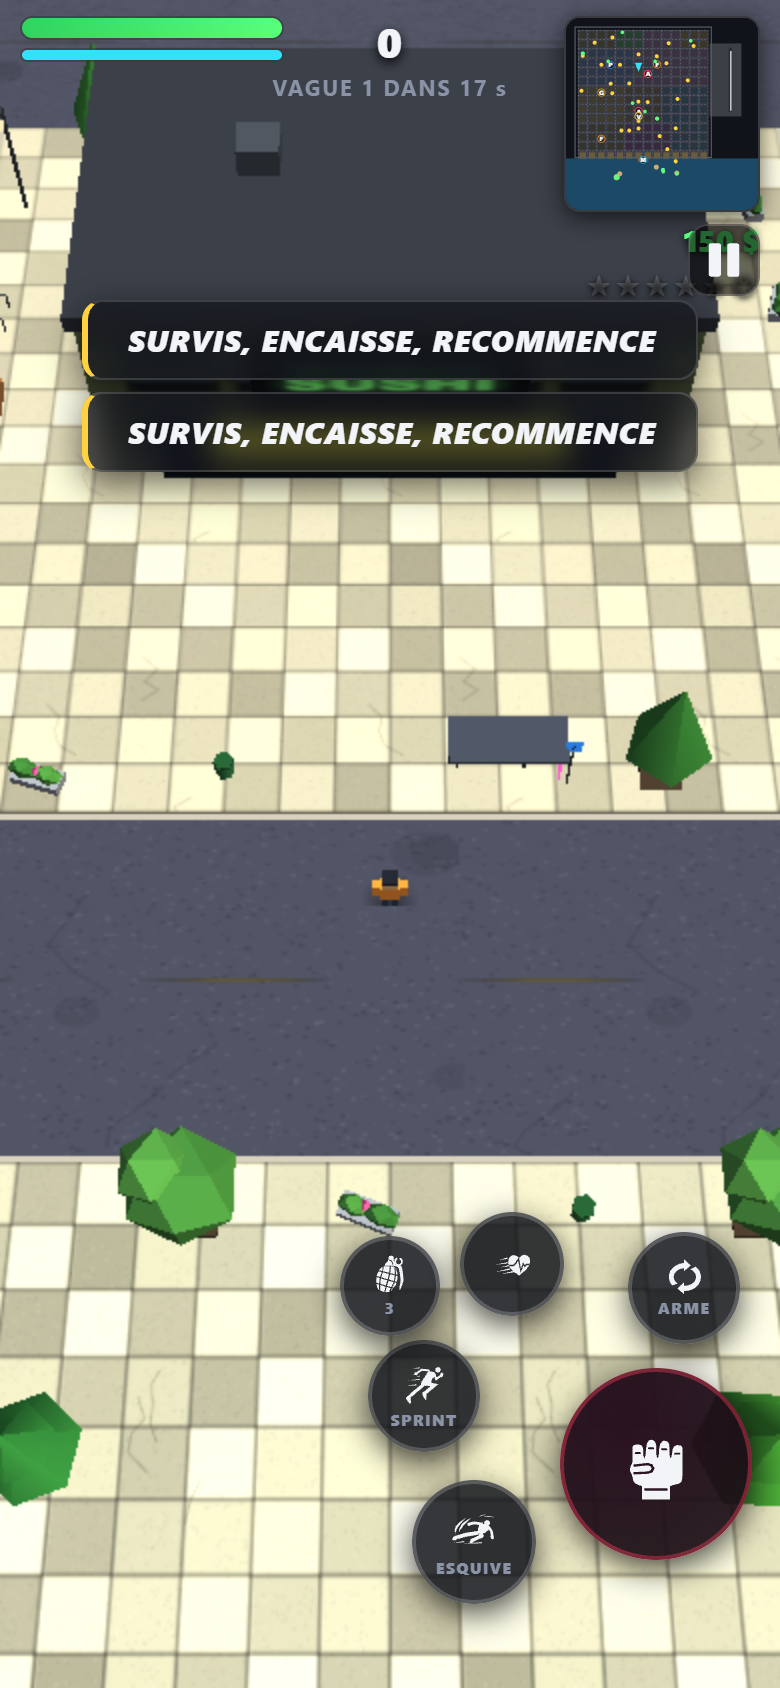
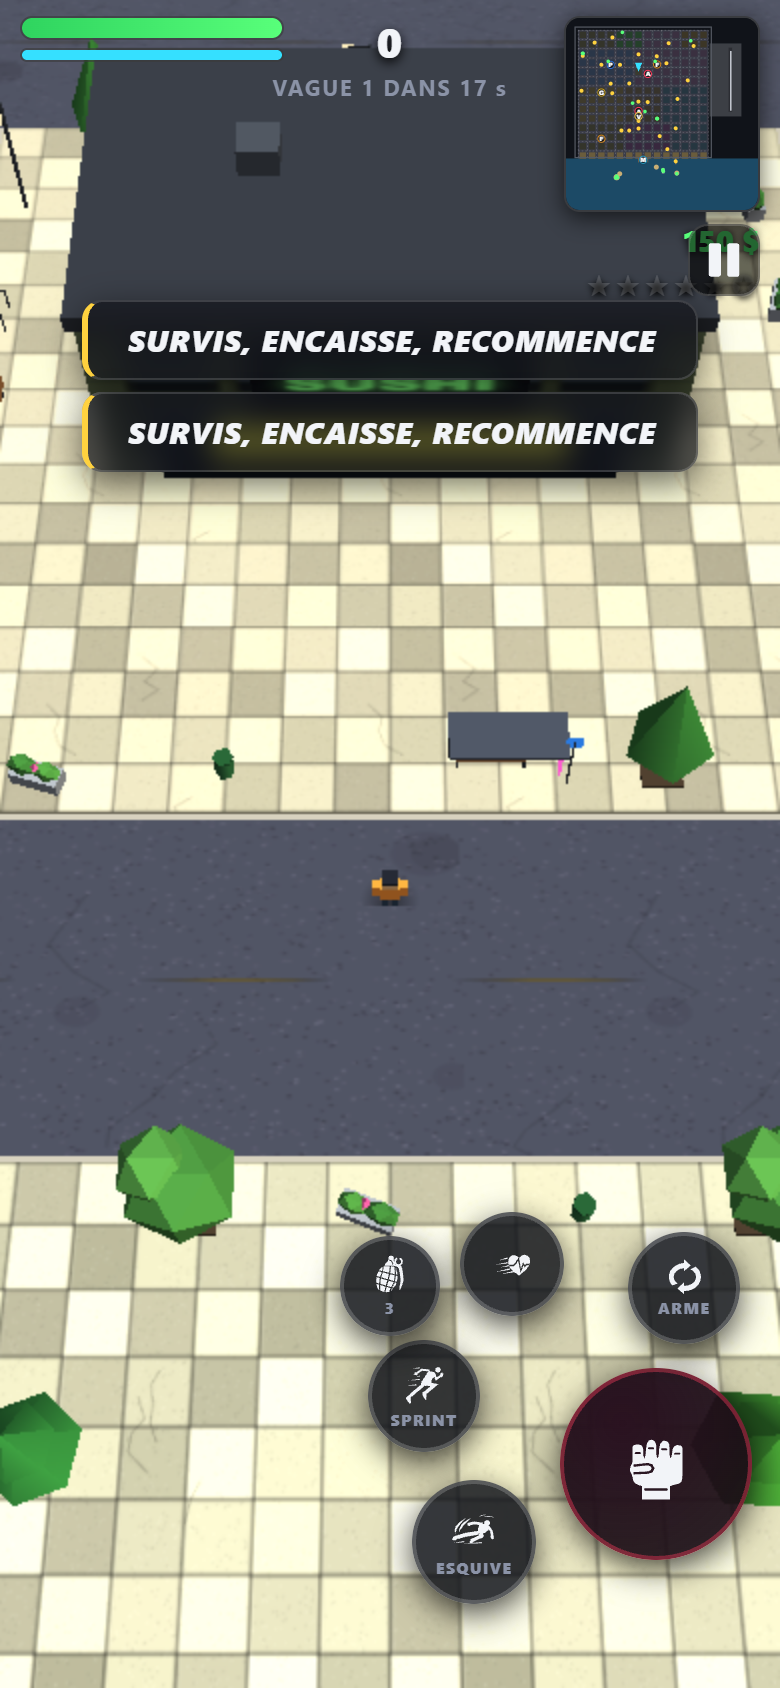
fix(décor): mobilier posé sur le trottoir, pas enfoncé dedans
Posé à y=0, tout le mobilier était enfoncé de 0,22 dans les dalles de
trottoir (pieds de bancs, fosses d'arbres, terre des massifs invisibles).
Captures refaites.

diff --git a/index.html b/index.html
@@ -3722,6 +3722,7 @@ function majHorsLesMurs(dt){
 let _aleaDecorS=917;
 function aleaDecor(){ _aleaDecorS|=0; _aleaDecorS=(_aleaDecorS+0x6D2B79F5)|0; let t=Math.imul(_aleaDecorS^(_aleaDecorS>>>15),1|_aleaDecorS); t=(t+Math.imul(t^(t>>>7),61|t))^t; return ((t^(t>>>14))>>>0)/4294967296; }
 const aD=(a,b)=>a+aleaDecor()*(b-a), choixD=(t)=>t[Math.floor(aleaDecor()*t.length)];
+const MOB_Y_TROTTOIR=0.22;         // dessus des dalles de trottoir (boîte de 0,22 posée à 0,11)
 const MOB_ZONES=7;                 // 7×7 zones de fusion (~2 pâtés chacune) : seules celles en vue sont dessinées
 const MOB={zones:[],cassables:new Map(),casses:[]}; // cassables : grille 8 u -> [{zone,debut,nb,x,z,r}]
 const MOB_MAT=new THREE.MeshLambertMaterial({vertexColors:true});
@@ -3733,7 +3734,7 @@ const _gBox=new THREE.BoxGeometry(1,1,1).toNonIndexed(), _gCyl=new THREE.Cylinde
       _gBoule=new THREE.IcosahedronGeometry(1,0), _gCone=new THREE.ConeGeometry(1,1,5).toNonIndexed(),
       _gOcta=new THREE.OctahedronGeometry(1,0);
 const _c3=new THREE.Color(), _m4=new THREE.Matrix4(), _v3=new THREE.Vector3(), _n3=new THREE.Vector3(), _m3=new THREE.Matrix3();
-function mobPieces(pieces,X,Z,ry,cible){
+function mobPieces(pieces,X,Z,ry,cible,Y0){
   // cible : {pos:[], nor:[], col:[]} ; renvoie le nombre de sommets ajoutés
   const c=Math.cos(ry), s=Math.sin(ry); let n=0;
   for(const p of pieces){
@@ -3743,7 +3744,7 @@ function mobPieces(pieces,X,Z,ry,cible){
     _c3.setHex(coul);
     for(let i=0;i<P.length;i+=3){
       const lx=P[i]*a+px, ly=P[i+1]*b+py, lz=P[i+2]*d+pz;
-      cible.pos.push(X+lx*c+lz*s, ly, Z-lx*s+lz*c);
+      cible.pos.push(X+lx*c+lz*s, ly+(Y0||0), Z-lx*s+lz*c);
       const nx=N[i]/a, ny=N[i+1]/b, nz=N[i+2]/d, l=Math.hypot(nx,ny,nz)||1;
       cible.nor.push((nx*c+nz*s)/l, ny/l, (-nx*s+nz*c)/l);
       cible.col.push(_c3.r,_c3.g,_c3.b); n++;
@@ -3803,8 +3804,10 @@ function mkMobilierUrbain(){
   };
   const poser=(type,x,z,ry)=>{
     const D=MOB_CAT[type], zn=zones[mobZone(x,z)];
-    const debut=zn.b.pos.length/3, nb=mobPieces(D.pieces,x,z,ry,zn.b);
-    if(D.lum) mobPieces(D.lum,x,z,ry,zn.l);
+    // posé SUR le trottoir (dessus à 0,22) : à y=0, tout était enfoncé de
+    // 0,22 (pieds de bancs, fosses d'arbres, terre des massifs invisibles)
+    const debut=zn.b.pos.length/3, nb=mobPieces(D.pieces,x,z,ry,zn.b,MOB_Y_TROTTOIR);
+    if(D.lum) mobPieces(D.lum,x,z,ry,zn.l,MOB_Y_TROTTOIR);
     if(D.solide){ const c=Math.abs(Math.cos(ry)), s=Math.abs(Math.sin(ry));
       addSolid({x,z,hw:D.solide.hw*c+D.solide.hd*s,hd:D.solide.hw*s+D.solide.hd*c,h:D.solide.h}); }
     if(D.casse){
@@ -3861,7 +3864,7 @@ function majMobilier(){
       const r=o.r+rv*0.75; if(dist2(o.x,o.z,v.x,v.z)>r*r) continue;
       o.casse=true; MOB.casses.push(o);
       const m=MOB.zones[o.zone], a=m.geometry.attributes.position, A=a.array;
-      for(let k=o.debut*3;k<(o.debut+o.nb)*3;k+=3){ A[k]=o.x; A[k+1]=-2; A[k+2]=o.z; } // repliés sous le sol
+      for(let k=o.debut*3;k<(o.debut+o.nb)*3;k+=3){ A[k]=o.x; A[k+1]=-2; A[k+2]=o.z; } // repliés sous le sol (y = -2 : marqueur testé)
       a.needsUpdate=true;
       burst(o.x,0.6,o.z,8,o.type==='poubelle'||o.type==='jardiniere'?0x3d7a34:o.type==='borne'?0x9fd8ff:0xa08060,6);
       bruit(0.12,0.4,700); v.v*=0.94;
